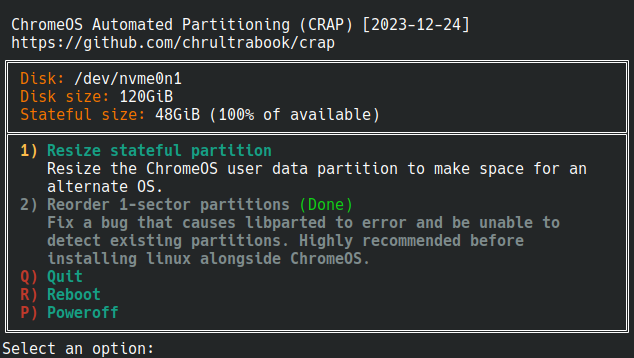
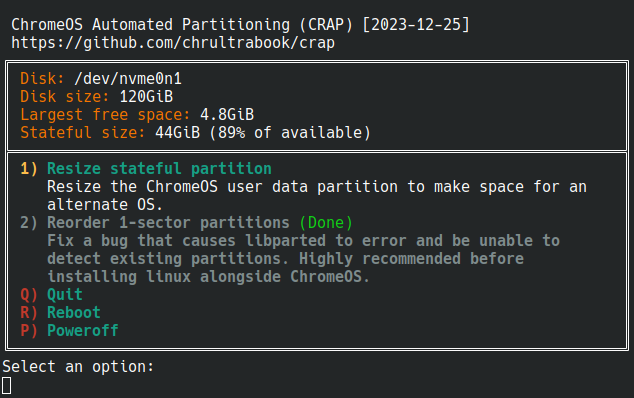
update screenshots

Changed region(s): [[0.0, 0.0307, 0.989, 1.0], [0.989, 0.8911, 1.0, 0.9218], [0.8991, 0.4609, 0.929, 0.4916]]

diff --git a/README.md b/README.md
@@ -24,7 +24,11 @@ See [MrChromebox's Firmware Utility Script](https://mrchromebox.tech/#fwscript) 
 
 ## Screenshots
 
+CRAP - main menu
+
 ![Screenshot - CRAP - main menu](/screenshots/screenshot01.png)
+
+CRAP - resizing stateful partition
 
 ![Screenshot - CRAP - resizing stateful partition](/screenshots/screenshot02.png)
 
